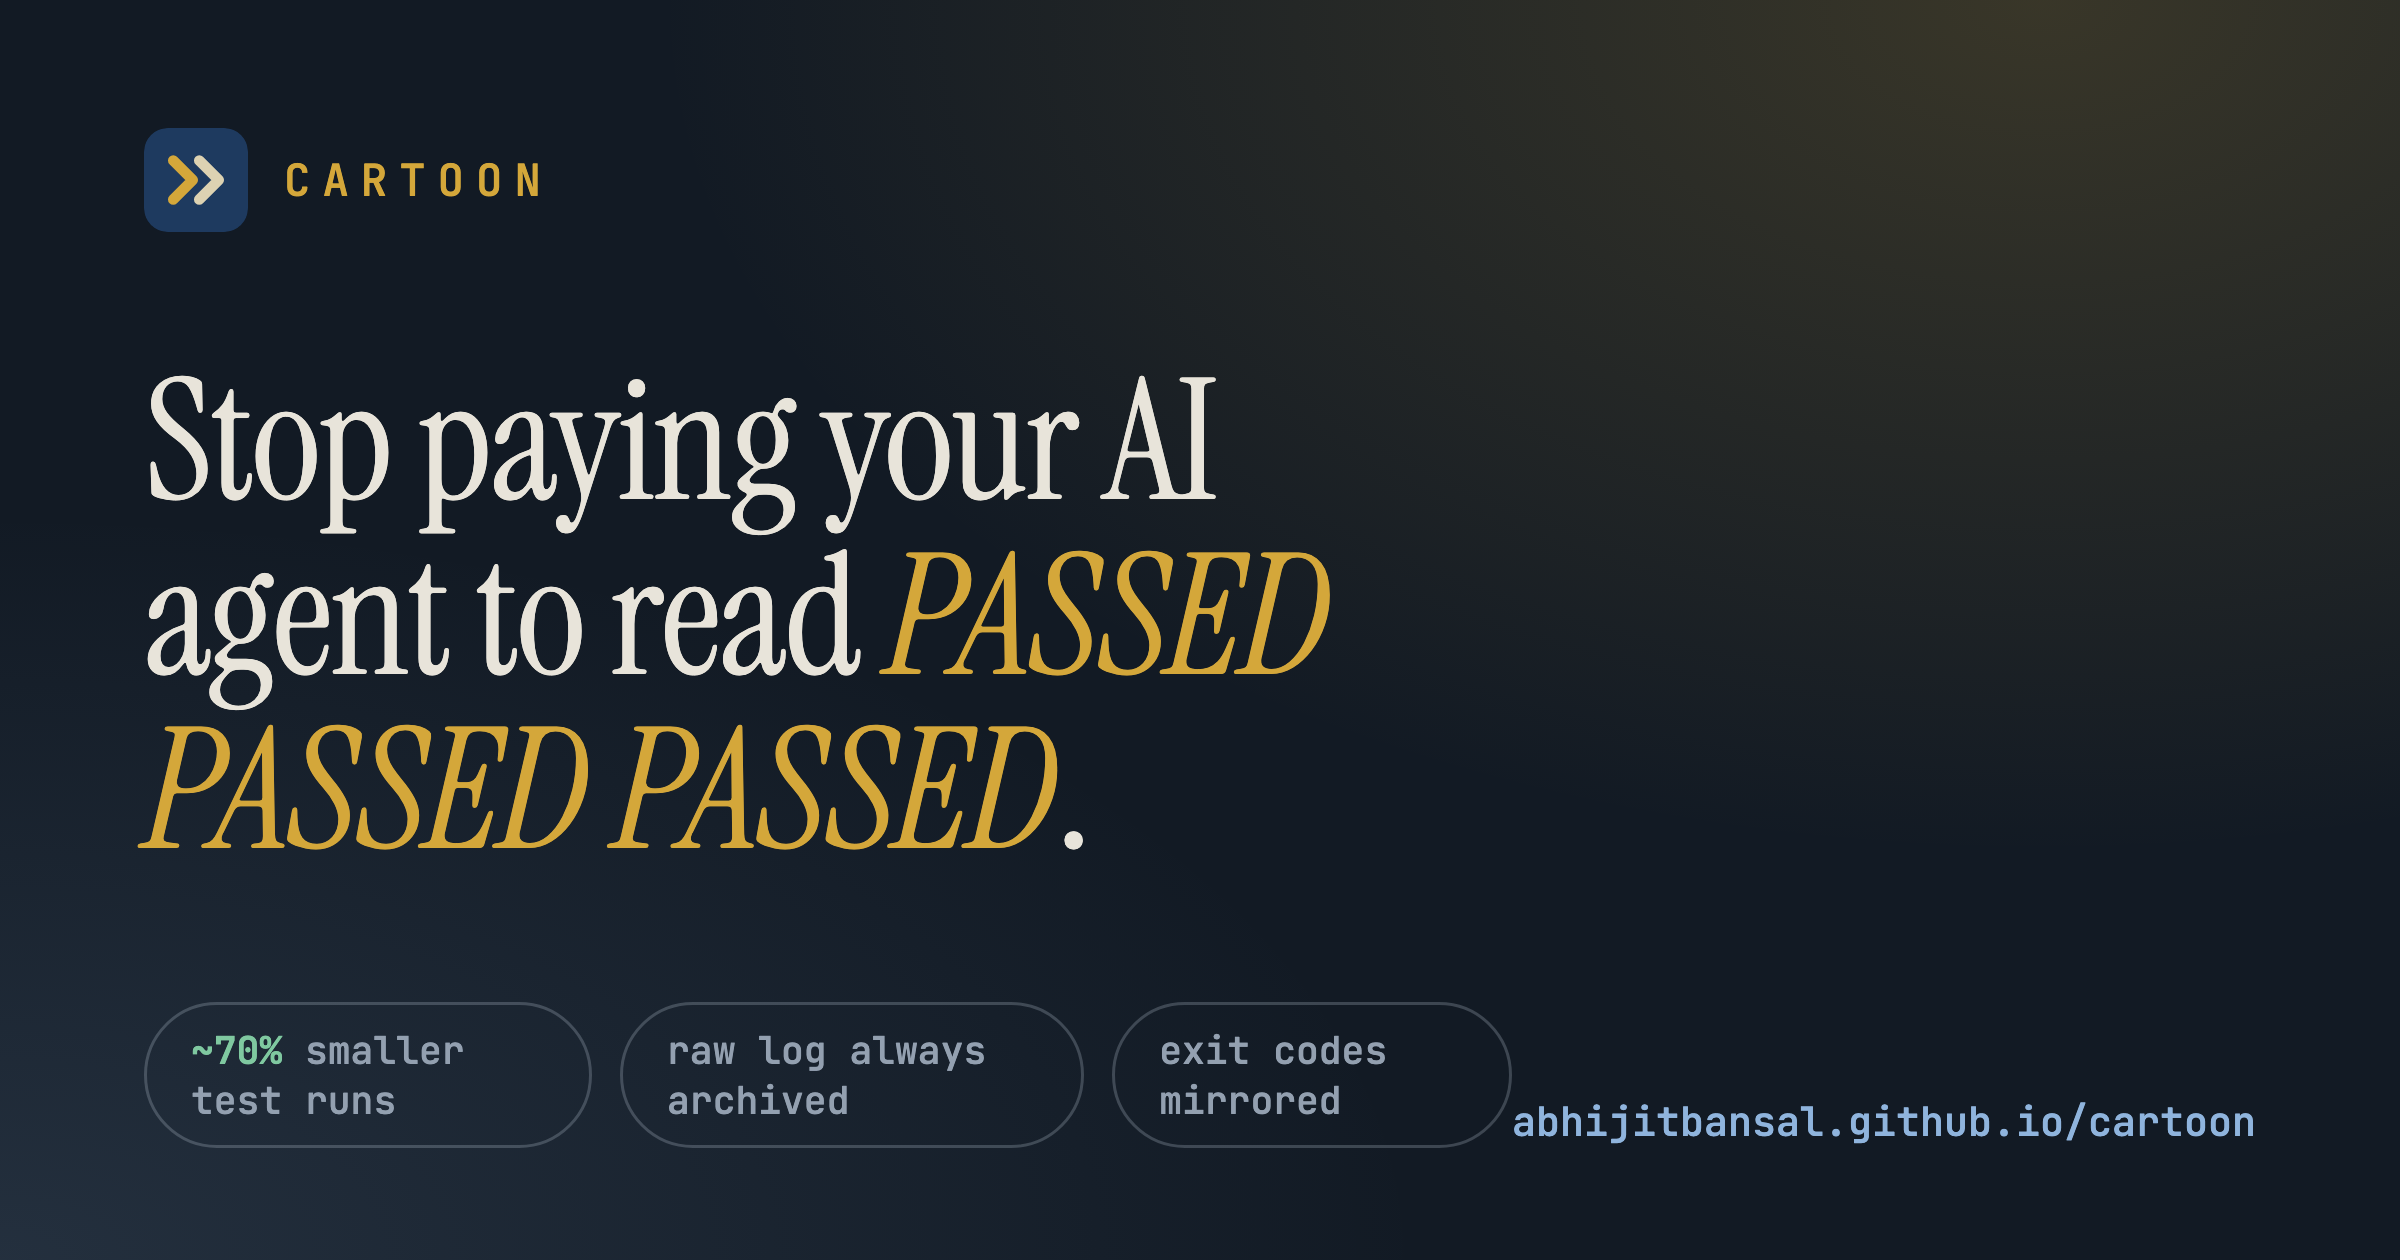
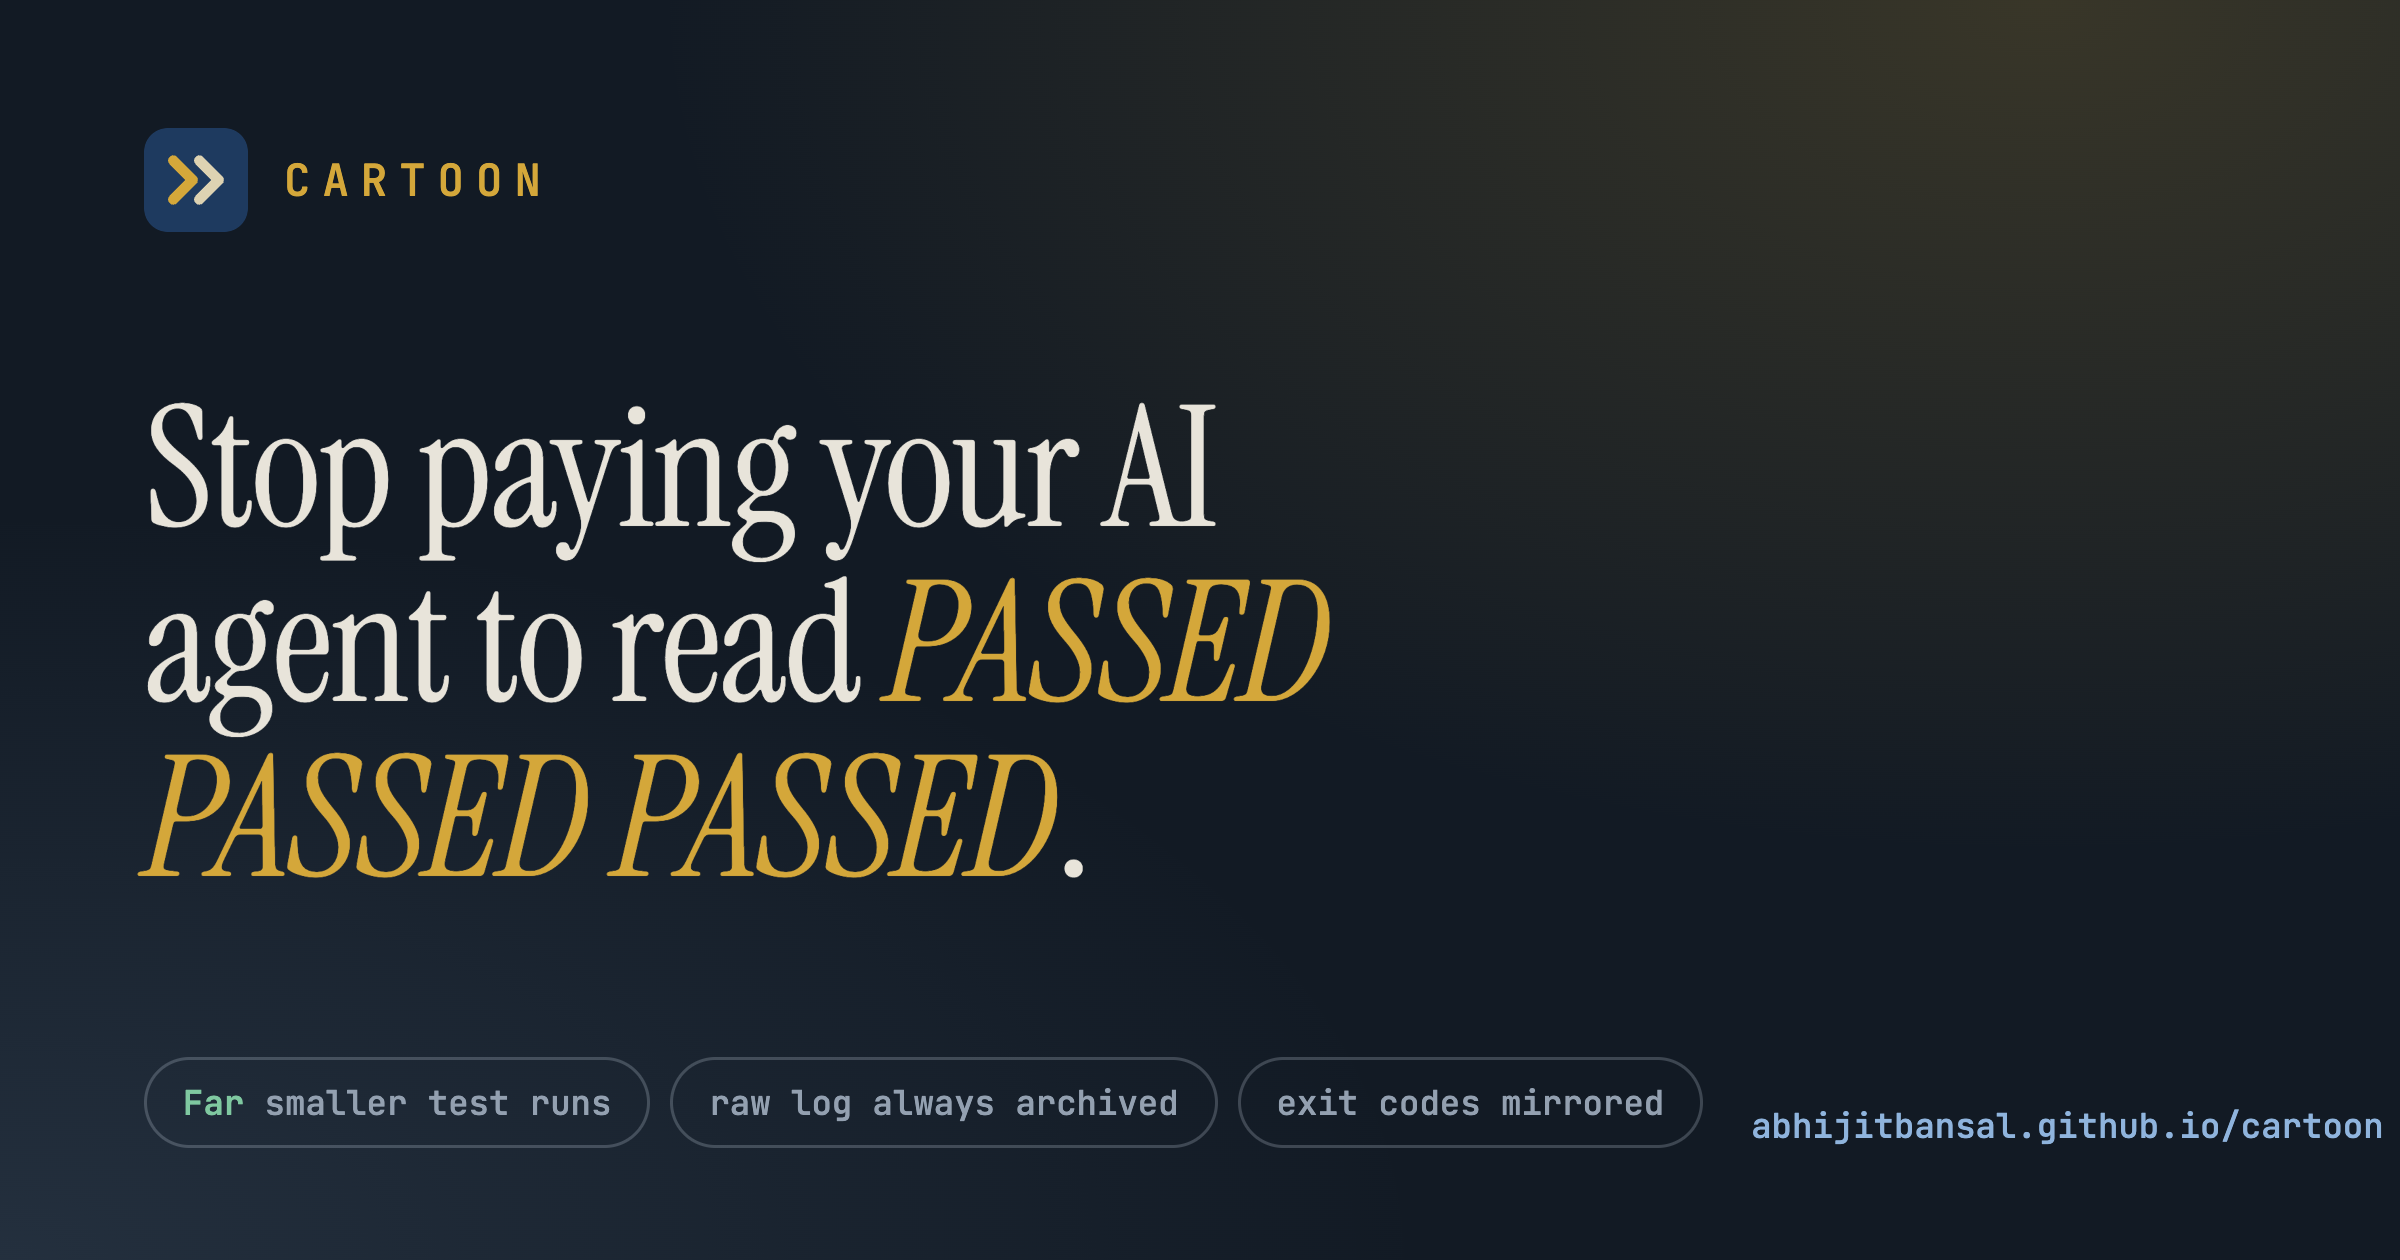
fix: drop remaining unbacked figures, re-render og card, drop removed --deny advice
Removes hero/compare demo numbers and golden-corpus percentages from the site
and READMEs, deletes FIG.2, re-renders og.png, and stops plugin.json telling
users to run the removed 'hook install --deny'. copy_hygiene covers each.

Claude-Session: https://claude.ai/code/session_01SWL59q2r7ZzYyNEpHTa5hB

Changed region(s): [[0.0625, 0.2786, 0.5625, 0.7119], [0.0625, 0.8048, 1.0, 0.9286]]

diff --git a/docs/index.html b/docs/index.html
@@ -352,8 +352,8 @@
     <figure class="blueprint anim" style="--i:1">
       <div class="frame">
 <svg viewBox="0 0 880 470" role="img" aria-labelledby="heroTitle heroDesc" xmlns="http://www.w3.org/2000/svg" style="width:100%;height:auto;display:block;font-family:'JetBrains Mono','SF Mono',Consolas,monospace">
-  <title id="heroTitle">cartoon compression: ~800 noisy log lines collapse into 12 structured TOON lines</title>
-  <desc id="heroDesc">A faux terminal. On the left, a scrolling stack of ~800 noisy pytest log lines (~4,800 tokens) with one buried failure in rust. They funnel through a guarded aperture in the center into a clean panel of 12 structured TOON lines (~300 tokens) on the right.</desc>
+  <title id="heroTitle">cartoon compression: a noisy pytest log collapses into a short structured TOON report</title>
+  <desc id="heroDesc">A faux terminal. On the left, a scrolling stack of noisy pytest log lines with one buried failure in rust. They funnel through a guarded aperture in the center into a clean panel of structured TOON lines on the right.</desc>
   <defs>
     <linearGradient id="hg-funnel" x1="0" y1="0" x2="1" y2="0">
       <stop offset="0" stop-color="var(--rust)" stop-opacity="0.18"/>
@@ -391,7 +391,7 @@
   <line x1="2" y1="36" x2="878" y2="36" stroke="var(--border)"/>
 
   <text x="18" y="60" font-size="9" letter-spacing="1" class="hg-err">STDOUT / STDERR · RAW</text>
-  <text x="18" y="80" font-size="10.5" class="hg-dim">~800 lines</text>
+  <text x="18" y="80" font-size="10.5" class="hg-dim">full raw log</text>
   <rect x="18" y="92" width="300" height="316" rx="6" fill="var(--surface2)" stroke="var(--border)"/>
   <g clip-path="url(#hg-noise)">
     <g class="hg-stream" font-size="9">
@@ -425,7 +425,7 @@
       </g>
     </g>
   </g>
-  <text x="168" y="426" text-anchor="middle" font-size="9.5" class="hg-dim">~4,800 tokens · 1 ERROR buried</text>
+  <text x="168" y="426" text-anchor="middle" font-size="9.5" class="hg-dim">1 ERROR buried</text>
 
   <path d="M318 92 L432 196 L432 304 L318 408 Z" fill="url(#hg-funnel)"/>
   <line x1="318" y1="92" x2="432" y2="196" stroke="var(--gold)" stroke-opacity=".4"/>
@@ -438,7 +438,7 @@
   <text x="589" y="216" text-anchor="middle" font-size="8" letter-spacing="1" class="hg-dim">GUARD</text>
   <text x="376" y="262" text-anchor="middle" font-size="7.5" class="hg-num fine-only">MATCH · DETECT · LADDER</text>
 
-  <text x="446" y="60" font-size="9" letter-spacing="1" class="hg-str">TOON · STRUCTURED · 12 lines</text>
+  <text x="446" y="60" font-size="9" letter-spacing="1" class="hg-str">TOON · STRUCTURED</text>
   <rect x="446" y="80" width="416" height="328" rx="6" fill="var(--surface-elevated)" stroke="var(--green)" stroke-opacity=".4"/>
   <g font-size="11.5" transform="translate(462,104)">
     <g class="hg-out" style="animation-delay:.05s"><text class="hg-dim" x="-14">1</text><text class="hg-key">runner:</text><text x="64" class="hg-str">pytest</text></g>
@@ -454,10 +454,10 @@
     <g class="hg-out" style="animation-delay:.7s" transform="translate(0,196)"><text class="hg-dim" x="-22">11</text><text class="hg-key">raw_log:</text><text x="74" class="hg-dim">runs/20260611-051415</text></g>
     <g class="hg-out" style="animation-delay:.8s" transform="translate(0,218)"><text class="hg-dim" x="-22">12</text><text class="hg-str hg-cur">&#9613;</text></g>
   </g>
-  <text x="654" y="426" text-anchor="middle" font-size="9.5" class="hg-str">~300 tokens · this run &#8722;93.8%</text>
+  <text x="654" y="426" text-anchor="middle" font-size="9.5" class="hg-str">failures kept verbatim</text>
 </svg>
       </div>
-      <figcaption><b>FIG.1</b> — ~800 noisy lines &#8594; 12 structured TOON rows · one buried failure kept verbatim</figcaption>
+      <figcaption><b>FIG.1</b> — noisy log &#8594; structured TOON rows · one buried failure kept verbatim</figcaption>
     </figure>
   </section>
 
@@ -493,8 +493,6 @@ cartoon hook status    # check · uninstall to remove</pre>
 
   <div class="statband">
     <div class="stat gold anim" style="--i:2"><div class="n">81–93%</div><div class="l">smaller than verbose test runs (benchmarks/README.md; baselines named there)</div></div>
-    <div class="stat anim" style="--i:3"><div class="n">92.5%</div><div class="l">token cut · chatty service log</div><div class="m">measured by cargo test</div></div>
-    <div class="stat anim" style="--i:4"><div class="n">61.5%</div><div class="l">token cut · cargo build failure</div><div class="m">measured by cargo test</div></div>
     <div class="stat anim" style="--i:5"><div class="n">0</div><div class="l">risk — output never gets bigger</div></div>
   </div>
 
@@ -575,7 +573,7 @@ tests/test_auth.py::test_logout PASSED             [  4%]
 &hellip;44 more lines of PASSED&hellip;
 tests/test_auth.py::test_expiry FAILED             [ 87%]
 &hellip;full session banner, warnings, summary&hellip;</pre>
-      <div class="cost">~4,800 tokens → the agent</div>
+      <div class="cost">every line → the agent</div>
     </div>
     <div class="after">
       <div class="balabel">cartoon pytest</div>
@@ -592,12 +590,12 @@ tests/test_auth.py::test_expiry FAILED             [ 87%]
 <span class="tok-key">traces:</span>
   "tests/test_auth.py::test_expiry"[2]: "tests/test_auth.py:42 in test_expiry",assert token.exp &lt; now()
 <span class="tok-key">raw_log:</span> ~/.local/state/cartoon/runs/20260611-051415-342d</pre>
-      <div class="cost">~300 tokens — failures keep full detail</div>
+      <div class="cost">failures keep full detail</div>
     </div>
   </div>
   <div class="ba-meter anim" style="--i:8">
     <span class="line"></span>
-    ~4,800 &#8594; ~300 tokens · <span class="scope">this run</span> <b>&#8722;93.8%</b>
+    full log &#8594; short report · <span class="scope">this run</span>
     <span class="line"></span>
   </div>
 
@@ -825,77 +823,6 @@ tests/test_auth.py::test_expiry FAILED             [ 87%]
       </tbody>
     </table>
   </div>
-
-  <figure class="blueprint anim" style="--i:24">
-    <div class="frame">
-<svg viewBox="0 0 720 340" role="img" aria-labelledby="dvTitle dvDesc" xmlns="http://www.w3.org/2000/svg" style="width:100%;height:auto;display:block;font-family:'JetBrains Mono','SF Mono',Consolas,monospace">
-  <title id="dvTitle">Measured token reduction across the golden corpus</title>
-  <desc id="dvDesc">Horizontal blueprint bar chart, measured by the test suite (cargo test). Chatty service log reduced 92.5 percent. Cargo build failure reduced 61.5 percent. npm ERESOLVE conflict net zero percent because the net-savings guard emits the original byte-for-byte. Verbose test runs are about 70 percent smaller (an estimate; see the benchmark).</desc>
-  <defs>
-    <style>
-      .dv-grow{transform:scaleX(1);transform-box:fill-box;transform-origin:left}
-      @media (prefers-reduced-motion: no-preference){
-        .dv-grow{animation:dv-bar .8s cubic-bezier(.2,.8,.2,1) both}
-      }
-      @keyframes dv-bar{from{transform:scaleX(0)}to{transform:scaleX(1)}}
-    </style>
-  </defs>
-
-  <text x="8" y="20" font-size="9" letter-spacing="1.5" fill="var(--gold)">FIG.2 — TOKEN REDUCTION · GOLDEN CORPUS · MEASURED BY CARGO TEST</text>
-
-  <g transform="translate(8 40)">
-    <line x1="500" y1="-4" x2="500" y2="236" stroke="var(--rust)" stroke-width="1" stroke-dasharray="2 3" opacity="0.7"/>
-    <text x="500" y="248" font-size="8" fill="var(--rust)" text-anchor="middle">100% raw</text>
-    <line x1="140" y1="-4" x2="140" y2="236" stroke="var(--navy)" stroke-width="1" opacity="0.5"/>
-    <text x="140" y="248" font-size="8" fill="var(--navy)" text-anchor="middle">0%</text>
-    <line x1="320" y1="-4" x2="320" y2="236" stroke="var(--navy)" stroke-width="0.6" stroke-dasharray="1 4" opacity="0.4"/>
-    <text x="320" y="248" font-size="8" fill="var(--text-dim)" text-anchor="middle">50% cut</text>
-
-    <g transform="translate(0 18)">
-      <text x="132" y="14" font-size="9.5" fill="var(--text)" text-anchor="end">chatty service log</text>
-      <text x="132" y="26" font-size="7.5" fill="var(--text-dim)" text-anchor="end">156 lines · 1 ERROR buried</text>
-      <rect x="140" y="2" width="360" height="22" rx="3" fill="var(--rust)" opacity="0.12"/>
-      <rect x="140" y="2" width="27" height="22" rx="3" fill="var(--green)" opacity="0.9" class="dv-grow"/>
-      <g stroke="var(--green)" stroke-width="0.8">
-        <line x1="167" y1="-3" x2="500" y2="-3"/>
-        <path d="M171 -7 L167 -3 L171 1 M496 -7 L500 -3 L496 1" fill="none"/>
-      </g>
-      <text x="333" y="-8" font-size="10" fill="var(--green)" text-anchor="middle" font-weight="600">&#8722;92.5%</text>
-      <text x="510" y="18" font-size="7.5" fill="var(--text-dim)" class="fine-only">ERROR+WARN verbatim</text>
-    </g>
-
-    <g transform="translate(0 86)">
-      <text x="132" y="14" font-size="9.5" fill="var(--text)" text-anchor="end">cargo build failure</text>
-      <text x="132" y="26" font-size="7.5" fill="var(--text-dim)" text-anchor="end">3 compile errors</text>
-      <rect x="140" y="2" width="360" height="22" rx="3" fill="var(--rust)" opacity="0.12"/>
-      <rect x="140" y="2" width="139" height="22" rx="3" fill="var(--green)" opacity="0.9" class="dv-grow" style="animation-delay:.12s"/>
-      <g stroke="var(--green)" stroke-width="0.8">
-        <line x1="279" y1="-3" x2="500" y2="-3"/>
-        <path d="M283 -7 L279 -3 L283 1 M496 -7 L500 -3 L496 1" fill="none"/>
-      </g>
-      <text x="389" y="-8" font-size="10" fill="var(--green)" text-anchor="middle" font-weight="600">&#8722;61.5%</text>
-      <text x="510" y="18" font-size="7.5" fill="var(--text-dim)" class="fine-only">all errors + locs</text>
-    </g>
-
-    <g transform="translate(0 154)">
-      <text x="132" y="14" font-size="9.5" fill="var(--text)" text-anchor="end">npm ERESOLVE conflict</text>
-      <text x="132" y="26" font-size="7.5" fill="var(--text-dim)" text-anchor="end">guard engages</text>
-      <rect x="140" y="2" width="360" height="22" rx="3" fill="var(--slate)" opacity="0.18" stroke="var(--slate)" stroke-width="0.8" stroke-dasharray="3 3"/>
-      <text x="320" y="17" font-size="9" fill="var(--slate)" text-anchor="middle">passes through byte-identical</text>
-      <text x="389" y="-8" font-size="10" fill="var(--slate)" text-anchor="middle" font-weight="600">&#177;0%</text>
-      <text x="510" y="18" font-size="7.5" fill="var(--text-dim)" class="fine-only">never negative</text>
-    </g>
-  </g>
-
-  <g transform="translate(8 318)" font-size="8" fill="var(--text-dim)">
-    <rect x="0" y="-8" width="11" height="11" rx="2" fill="var(--green)" opacity="0.9"/><text x="16" y="1">kept (sent to agent)</text>
-    <rect x="150" y="-8" width="11" height="11" rx="2" fill="var(--rust)" opacity="0.12"/><text x="166" y="1">removed noise</text>
-    <rect x="280" y="-8" width="11" height="11" rx="2" fill="var(--slate)" opacity="0.18"/><text x="296" y="1">guard pass-through (&#177;0%)</text>
-  </g>
-</svg>
-    </div>
-    <figcaption><b>FIG.2</b> — token reduction, golden corpus · bars measured by cargo test · the adapter table above is the copy-paste twin</figcaption>
-  </figure>
 
   <p class="pull anim" style="--i:25">"Your agent reads a short summary — and the <span>receipt is always on disk</span>."</p>
 

diff --git a/docs/assets/og-card.html b/docs/assets/og-card.html
@@ -34,17 +34,17 @@
   }
   h1 em { font-style: italic; color: #d4a73a; }
   .foot {
-    display: flex; justify-content: space-between; align-items: flex-end;
+    display: flex; justify-content: space-between; align-items: flex-end; gap: 24px;
     font-family: 'JetBrains Mono', monospace;
   }
-  .pills { display: flex; gap: 14px; }
+  .pills { display: flex; gap: 10px; }
   .pill {
-    font-size: 19px; color: #93a0b0;
+    font-size: 17px; color: #93a0b0; white-space: nowrap;
     border: 1.5px solid rgba(214,226,240,0.22); border-radius: 999px;
-    padding: 10px 22px;
+    padding: 10px 18px;
   }
   .pill b { color: #7fc8a0; font-weight: 600; }
-  .url { font-size: 20px; color: #8fb4dd; }
+  .url { font-size: 17px; white-space: nowrap; color: #8fb4dd; }
 </style>
 </head>
 <body>

diff --git a/tests/copy_hygiene.rs b/tests/copy_hygiene.rs
@@ -3,7 +3,24 @@
 //! the only places such numbers may live.
 use std::path::Path;
 
-const BANNED: &[&str] = &["~70%", "≥70%", "43–89%", "12 lines instead of 800"];
+const BANNED: &[&str] = &[
+    "~70%",
+    "≥70%",
+    "43–89%",
+    "12 lines instead of 800",
+    // Hero/compare demo figures: one illustrative run, not in benchmarks/results.
+    "~800",
+    "~4,800",
+    "~4800",
+    "~300 tokens",
+    "93.8",
+    "12 structured",
+    "12 TOON",
+    "12 lines",
+    // Golden-corpus test figures: real, but not benchmarks/results.
+    "92.5",
+    "61.5",
+];
 const SKIP_DIRS: &[&str] = &[
     ".git",
     ".scratch",
@@ -45,4 +62,23 @@ fn no_unbacked_savings_figures_in_copy() {
     let mut hits = Vec::new();
     scan(root, &mut hits);
     assert!(hits.is_empty(), "unbacked figures:\n{}", hits.join("\n"));
+}
+
+/// `hook install --deny` was removed in 0.8; marketplace text must not tell
+/// users to run it. (The README still documents it until the docs rewrite.)
+#[test]
+fn plugin_manifests_do_not_advertise_removed_flags() {
+    let root = Path::new(env!("CARGO_MANIFEST_DIR"));
+    for rel in [
+        ".claude-plugin/plugin.json",
+        ".claude-plugin/marketplace.json",
+    ] {
+        let Ok(text) = std::fs::read_to_string(root.join(rel)) else {
+            continue;
+        };
+        assert!(
+            !text.contains("--deny"),
+            "{rel} mentions removed --deny flag"
+        );
+    }
 }

diff --git a/README.md b/README.md
@@ -397,7 +397,7 @@ have no adapter (ladder compression only), and ledger health (malformed
 lines, negative-saved runs, the biggest uncompressed commands). Paste it into
 a bug report.
 
-Failing test run, before (pytest, ~4800 tokens) vs after (~300 tokens):
+Failing test run, after cartoon:
 
 ```
 runner: pytest
@@ -437,14 +437,14 @@ stage that understands the content wins:
 
 Every rule is a pure function that no-ops when its pattern is absent, so
 plain prose is never mangled. Measured on the golden corpus by the test
-suite (`tests/corpus.rs`, part of `cargo test`; token reduction at the
-aggressive tier, signal lines asserted intact):
+suite (`tests/corpus.rs`, part of `cargo test`; signal lines asserted
+intact at the aggressive tier):
 
-| Fixture | Reduction | Signal kept |
-|---|---|---|
-| chatty service log (156 lines, 1 ERROR) | **−92.5%** | ERROR + WARN verbatim, ±2 lines context |
-| real `cargo build` failure (3 errors) | **−61.5%** | all errors + locations in a TOON table |
-| npm ERESOLVE conflict | ±0% | guard emits the original — never negative |
+| Fixture | Signal kept |
+|---|---|
+| chatty service log (156 lines, 1 ERROR) | ERROR + WARN verbatim, ±2 lines context |
+| real `cargo build` failure (3 errors) | all errors + locations in a TOON table |
+| npm ERESOLVE conflict | guard emits the original, so output is never larger |
 
 ## Guarantees
 

diff --git a/packages/npm/cartoon-wrap/README.md b/packages/npm/cartoon-wrap/README.md
@@ -28,7 +28,7 @@ cartoon stats --since 7d       # how many tokens you've saved
 cartoon logs --last --stdout   # full raw output of the newest run
 ```
 
-Failing test run, before (~4800 tokens) vs after (~300 tokens):
+Failing test run, after cartoon:
 
 ```
 runner: pytest
